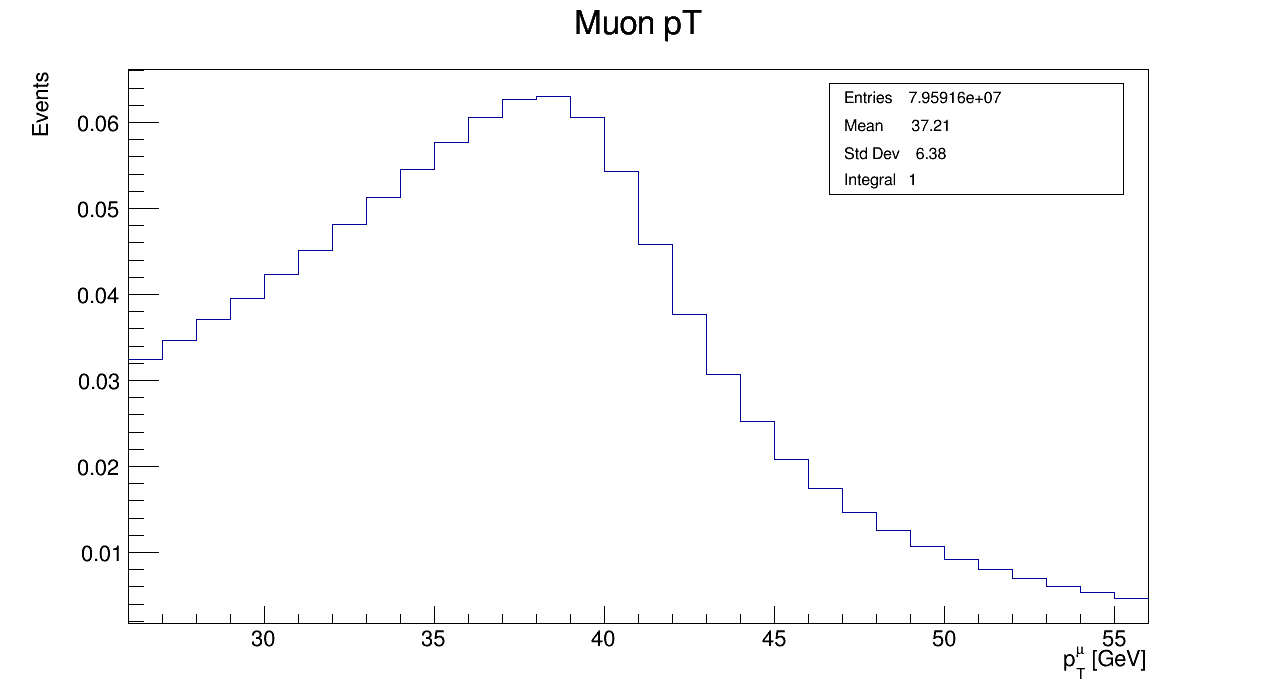
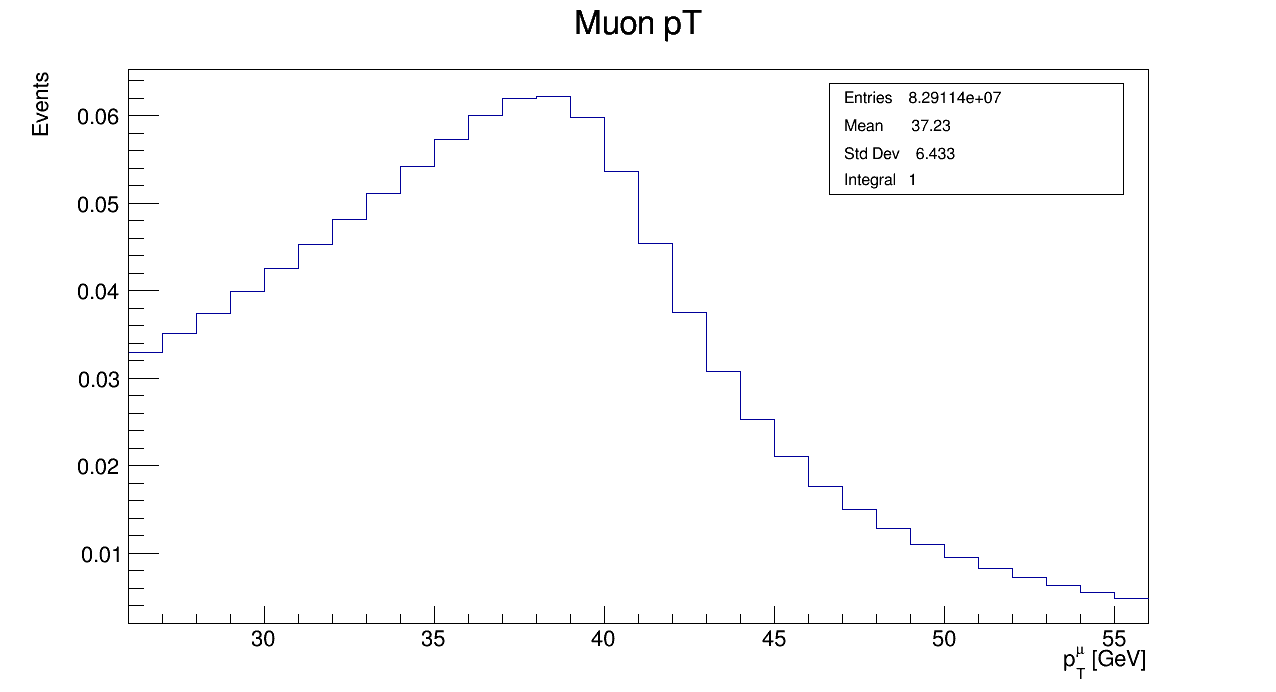
modifica distribuzione eta, definisco la distribuzione angolare di W come una uniforme, e da qua estraggo eta.

diff --git a/main.cpp b/main.cpp
@@ -60,14 +60,10 @@ Parameters read_parameters(const std::string& filename)
 const std::size_t HIST_WIDTH = 1280;
 const std::size_t HIST_HEIGHT = 720;
 
-void save_histogram(TH1* hist, const std::string& filename)
+void save_histogram(TH1* hist, const std::string& filename, bool norm_hist = true)
 {
     if (!hist)
         throw std::runtime_error{"Istogramma nullo"};
-
-    // =========================
-    // Istogramma originale
-    // =========================
 
     TCanvas canvas{
         "canvas",
@@ -100,6 +96,8 @@ void save_histogram(TH1* hist, const std::string& filename)
 
     canvas.SaveAs(filename.c_str());
 
+    if(!norm_hist)
+        return;
     // Istogramma normalizzato
 
     std::unique_ptr<TH1> hist_norm{
@@ -217,7 +215,7 @@ int main(int argc, char** argv)
     auto ratioHist{ analyzer.releaseRatioHist() };
     double sigma{ analyzer.sigma() };
 
-    save_histogram(ratioHist.get(), DATA_DIR "/results/template_ratio.png");
+    save_histogram(ratioHist.get(), DATA_DIR "/results/template_ratio.png", false);
 
     auto end{ std::chrono::high_resolution_clock::now() };
     auto elapsed{ std::chrono::duration_cast<std::chrono::milliseconds>(end - start) };

diff --git a/src/WDecaySampler.cpp b/src/WDecaySampler.cpp
@@ -41,7 +41,8 @@ template<std::invocable Func>
 double generate_random_eta(Func&& rand) {
     //TODO: definire una distribuzione effettiva
 
-    return generate_random_gaussian(0, 2, rand);
+    double cos_theta = rand() * 2.0 - 1.0;
+    return std::atanh(cos_theta);
 }
 
 template<std::invocable Func>
